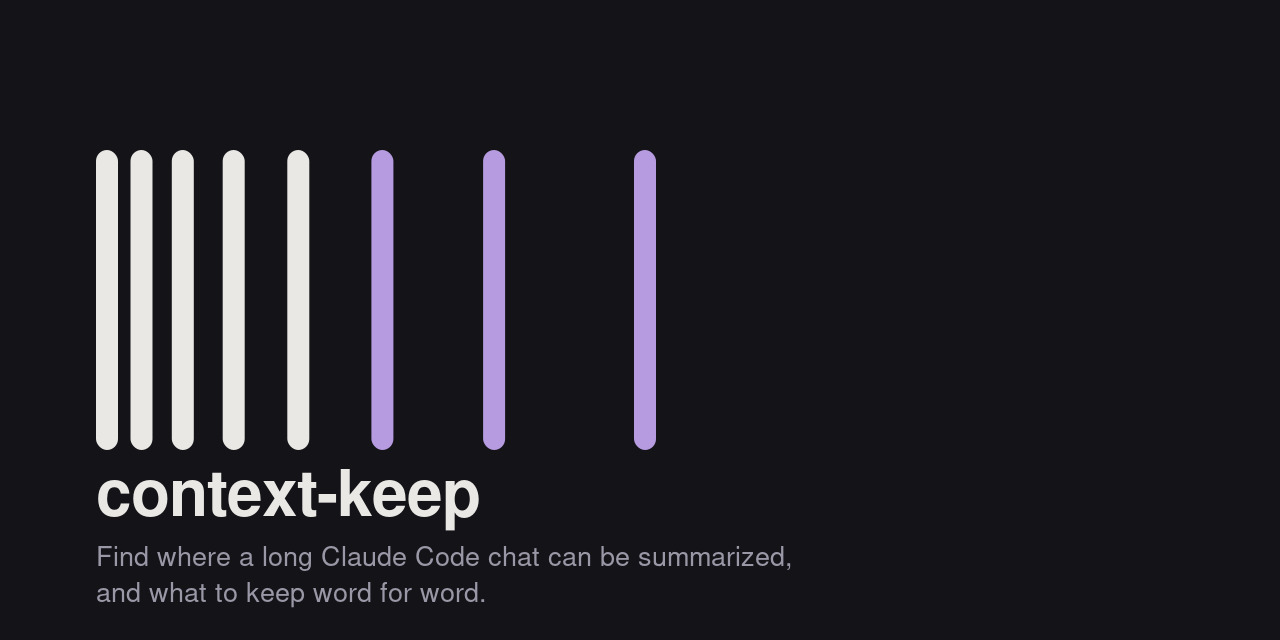
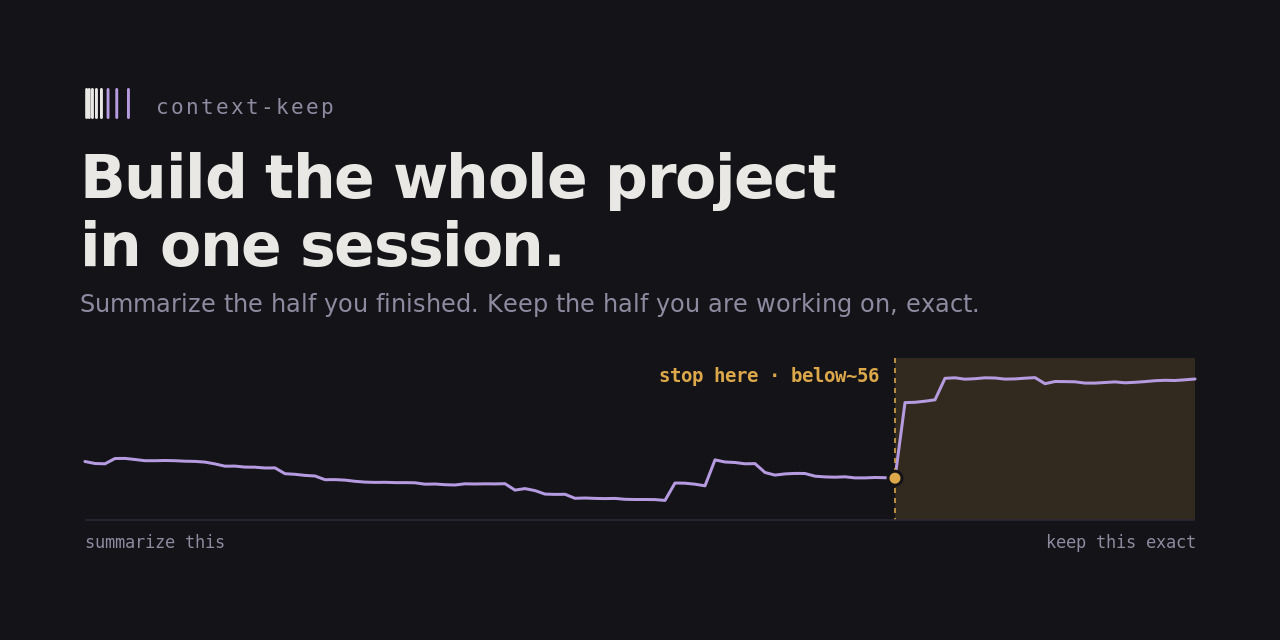
Redraw the social card inside GitHub's safe border
GitHub's template asks for a 40pt border around anything that matters, which
is 80 pixels at 1280x640. The old card put two lines of text at y=602, inside
the strip GitHub may crop.

assets/make_social_card.py draws it now and checks all four borders are clear
before it finishes, so the mistake cannot come back. It writes a PNG and a
JPEG.

The card carries the real curve from session edd44f35, the same one the
write-up plots, with the safe zone shaded and below~56 marked. The picture is
a measurement, not a drawing.

diff --git a/assets/make_social_card.py b/assets/make_social_card.py
@@ -1,0 +1,131 @@
+"""Draw the GitHub social preview, 1280x640.
+
+GitHub's own template asks for a 40pt border around anything that matters, so
+nothing is cropped. At this size that is 80 pixels on every side, and every
+mark here stays inside it.
+
+The curve is the real one from session edd44f35, the same session the write-up
+uses, so the picture on the card is a measurement and not a drawing.
+
+    python3 assets/make_social_card.py
+"""
+
+import json
+import pathlib
+
+W, H = 1280, 640
+SAFE = 80                       # GitHub's 40pt guide, at this size
+GROUND, INK, MUTED = "#131318", "#EAE8E4", "#8E8AA0"
+ACCENT, ZONE, RULE = "#B69BE0", "#DCA84A", "#2A2836"
+
+# Vertical plan, all inside SAFE..H-SAFE.
+Y_MARK = SAFE + 38              # the bar mark and the word
+Y_H1, Y_H2 = SAFE + 118, SAFE + 186
+Y_SUB = SAFE + 232
+PT, PB = 358, 520               # the plot
+Y_FEET = 548                    # the two words under the plot
+PL, PR = SAFE + 5, W - SAFE - 5  # a stroke is centred, so keep it off the edge
+
+HERE = pathlib.Path(__file__).resolve().parent
+ROOT = HERE.parent
+
+
+def build():
+    d = json.loads((ROOT / "article" / "sim.json").read_text())["cliff"]
+    v, z = d["v"], d["zones"][0]
+    n = len(v)
+    lo, hi = min(v), max(v)
+    pad = (hi - lo) * 0.16
+
+    def X(i):
+        return PL + (PR - PL) * i / (n - 1)
+
+    def Y(t):
+        return PT + (PB - PT) * (1 - (t - lo + pad) / (hi - lo + 2 * pad))
+
+    za = d["below"].index(z["below"])
+    zb = min(n - 1, za + abs(z["to"] - z["from"]))
+    pts = " ".join(f"{X(i):.1f},{Y(t):.1f}" for i, t in enumerate(v))
+
+    # The eight bars of the mark, at 0.86 of their drawn size.
+    xs = [6.0, 9.1, 12.8, 17.4, 23.3, 30.9, 41.0, 54.6]
+    bars = "".join(
+        f'<rect x="{SAFE + x * 0.86:.1f}" y="{Y_MARK - 30:.0f}" '
+        f'width="{3.4 * 0.86:.1f}" height="31" rx="1.5" '
+        f'fill="{ACCENT if i >= 5 else INK}"/>'
+        for i, x in enumerate(xs))
+
+    return f"""<svg xmlns="http://www.w3.org/2000/svg" width="{W}" height="{H}" \
+viewBox="0 0 {W} {H}">
+  <rect width="{W}" height="{H}" fill="{GROUND}"/>
+  {bars}
+  <text x="{SAFE + 76}" y="{Y_MARK - 4}" fill="{MUTED}"
+        font-family="DejaVu Sans Mono,monospace" font-size="21"
+        letter-spacing="2">context-keep</text>
+
+  <text x="{SAFE}" y="{Y_H1}" fill="{INK}" font-family="DejaVu Sans,Arial,sans-serif"
+        font-size="60" font-weight="bold" letter-spacing="-1.6">Build the whole project</text>
+  <text x="{SAFE}" y="{Y_H2}" fill="{INK}" font-family="DejaVu Sans,Arial,sans-serif"
+        font-size="60" font-weight="bold" letter-spacing="-1.6">in one session.</text>
+  <text x="{SAFE}" y="{Y_SUB}" fill="{MUTED}" font-family="DejaVu Sans,Arial,sans-serif"
+        font-size="24">Summarize the half you finished. Keep the half you are working on, exact.</text>
+
+  <rect x="{X(za):.1f}" y="{PT}" width="{X(zb) - X(za):.1f}" height="{PB - PT}"
+        fill="{ZONE}" opacity="0.16"/>
+  <polyline points="{pts}" fill="none" stroke="{ACCENT}" stroke-width="3"
+            stroke-linejoin="round" stroke-linecap="round"/>
+  <line x1="{X(za):.1f}" y1="{PT}" x2="{X(za):.1f}" y2="{PB}"
+        stroke="{ZONE}" stroke-width="1.6" stroke-dasharray="5 5"/>
+  <circle cx="{X(za):.1f}" cy="{Y(v[za]):.1f}" r="7" fill="{ZONE}"
+          stroke="{GROUND}" stroke-width="3"/>
+  <text x="{X(za) - 16:.1f}" y="{PT + 24}" fill="{ZONE}" text-anchor="end"
+        font-family="DejaVu Sans Mono,monospace" font-size="19"
+        font-weight="bold">stop here &#183; below~{z["below"]}</text>
+
+  <line x1="{PL}" y1="{PB}" x2="{PR}" y2="{PB}" stroke="{RULE}" stroke-width="1.5"/>
+  <text x="{PL}" y="{Y_FEET}" fill="{MUTED}"
+        font-family="DejaVu Sans Mono,monospace" font-size="17">summarize this</text>
+  <text x="{PR}" y="{Y_FEET}" fill="{MUTED}" text-anchor="end"
+        font-family="DejaVu Sans Mono,monospace" font-size="17">keep this exact</text>
+</svg>
+"""
+
+
+def main():
+    import cairosvg
+    from PIL import Image
+
+    svg = build()
+    (HERE / "social-card.svg").write_text(svg)
+    cairosvg.svg2png(bytestring=svg.encode(), write_to=str(HERE / "social-card.png"),
+                     output_width=W, output_height=H)
+    im = Image.open(HERE / "social-card.png").convert("RGB")
+    im.save(HERE / "social-card.png", format="PNG", optimize=True)
+    im.save(HERE / "social-card.jpg", format="JPEG", quality=92,
+            optimize=True, subsampling=0)
+
+    # Nothing may sit in the border GitHub may crop.
+    px = im.load()
+    bg = (19, 19, 24)
+    edge = SAFE - 2
+
+    def used(x0, y0, x1, y1):
+        return any(px[x, y] != bg
+                   for x in range(x0, x1) for y in range(y0, y1))
+
+    checks = {
+        "top": used(0, 0, W, edge),
+        "bottom": used(0, H - edge, W, H),
+        "left": used(0, 0, edge, H),
+        "right": used(W - edge, 0, W, H),
+    }
+    size = (HERE / "social-card.png").stat().st_size
+    print(f"social-card.png  {im.size[0]}x{im.size[1]}  {size / 1024:.0f} KB")
+    for side, hit in checks.items():
+        print(f"  {side:6s} border clear: {not hit}")
+    if any(checks.values()):
+        raise SystemExit("content sits in the border GitHub may crop")
+
+
+if __name__ == "__main__":
+    main()
